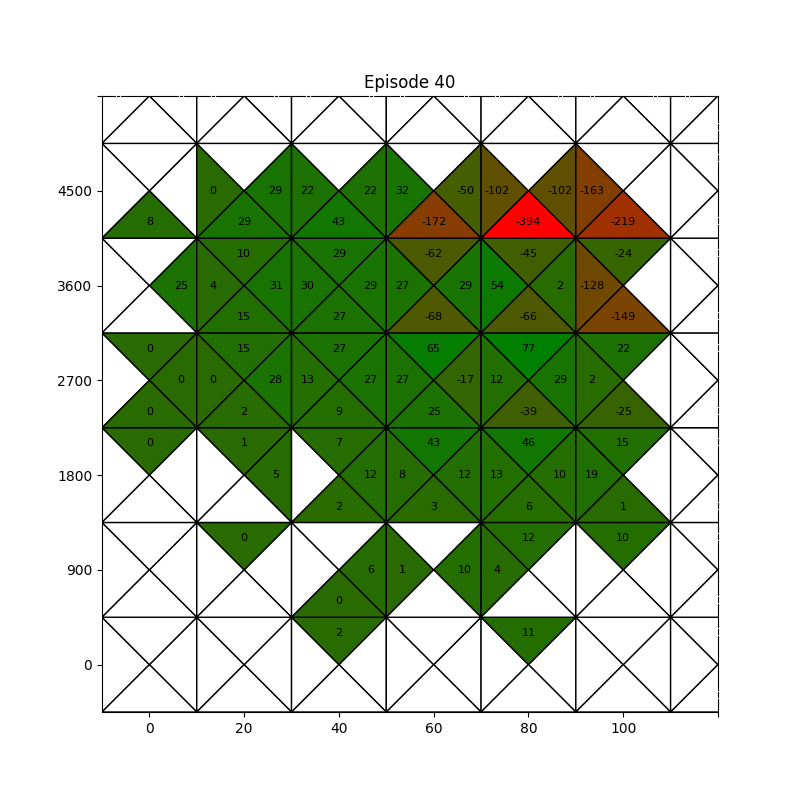
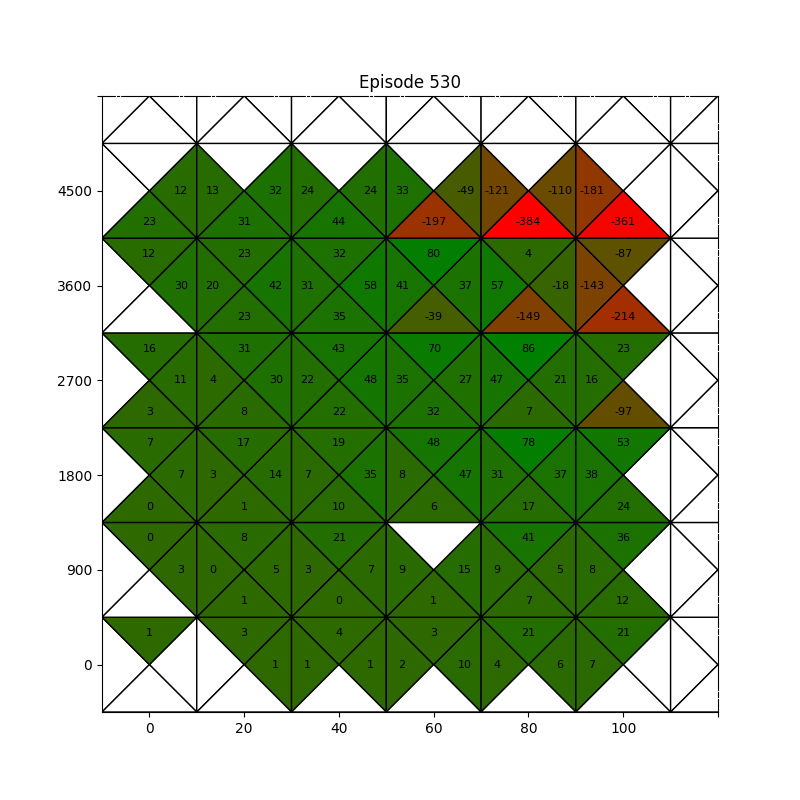
better folders

diff --git a/rpyc-test.py b/rpyc-test.py
@@ -3,12 +3,15 @@ import rpyc
 # Create a RPyC connection to the remote ev3dev device.
 # Use the hostname or IP address of the ev3dev device.
 # If this fails, verify your IP connectivty via ``ping X.X.X.X``
-conn = rpyc.classic.connect('ev3dev.local')
+# conn = rpyc.classic.connect('ev3dev.local')
+conn = rpyc.classic.connect('169.254.188.243')
+
 conn.execute("print('Hello Slave. I am your master!')")
 
 from RobotCrawler import RoboCrawler
 from QLearningAgent import QLearningAgent
 import pickle
+import os 
 
 
 # r = RoboCrawler(conn)
@@ -17,11 +20,11 @@ import pickle
 
 
 
-
-with open('Q_Save.pkl', 'rb') as file:
+filename = os.path.join('Q-Saves', 'Q_Save.pkl')
+with open(filename, 'rb') as file:
     Q = pickle.load(file)
 
 # Q = {}
-agent = QLearningAgent(conn, 0, 0, 1, 0.5, 0.75, Q if Q else {}, 80,2700)
-Q = agent.QLearning(1000)
+agent = QLearningAgent(conn, 0.85, 0.1, 1, 0.5, 0.75, Q if Q else {})#, 80,2700)
+Q = agent.QLearning(2000)
 

diff --git a/QPrint.py b/QPrint.py
@@ -1,0 +1,23 @@
+import pickle
+import os
+
+
+filename = os.path.join('Q-Saves', 'Q_Save.pkl')
+with open(filename, 'rb') as file:
+    Q = pickle.load(file)
+
+print(Q)
+
+
+
+
+
+
+
+
+# Q = 
+
+
+# filename = os.path.join('Q-Saves', 'Q_Save.pkl')
+# with open(filename, 'wb') as file:
+#     pickle.dump(Q, file)

diff --git a/README.md b/README.md
@@ -3,3 +3,13 @@
 SSH Connection:
 ssh robot@ev3dev.local
 maker
+
+
+
+Things tested:
+
+big negative reward
+negative reward on no movement actions
+big statespace
+
+varying all constants
